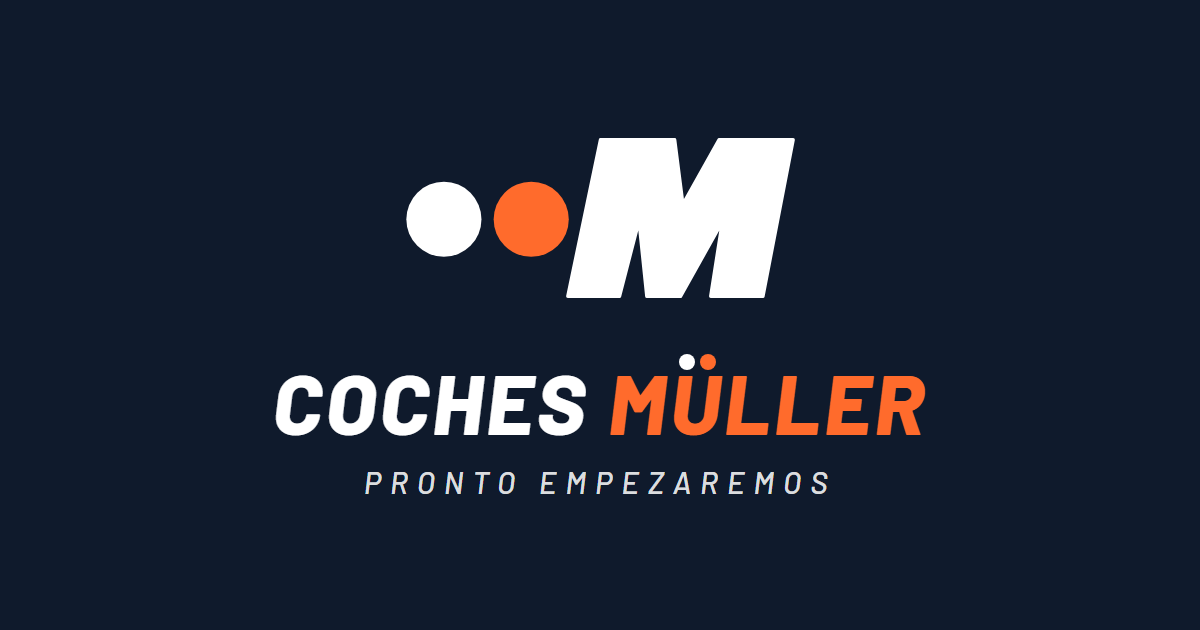
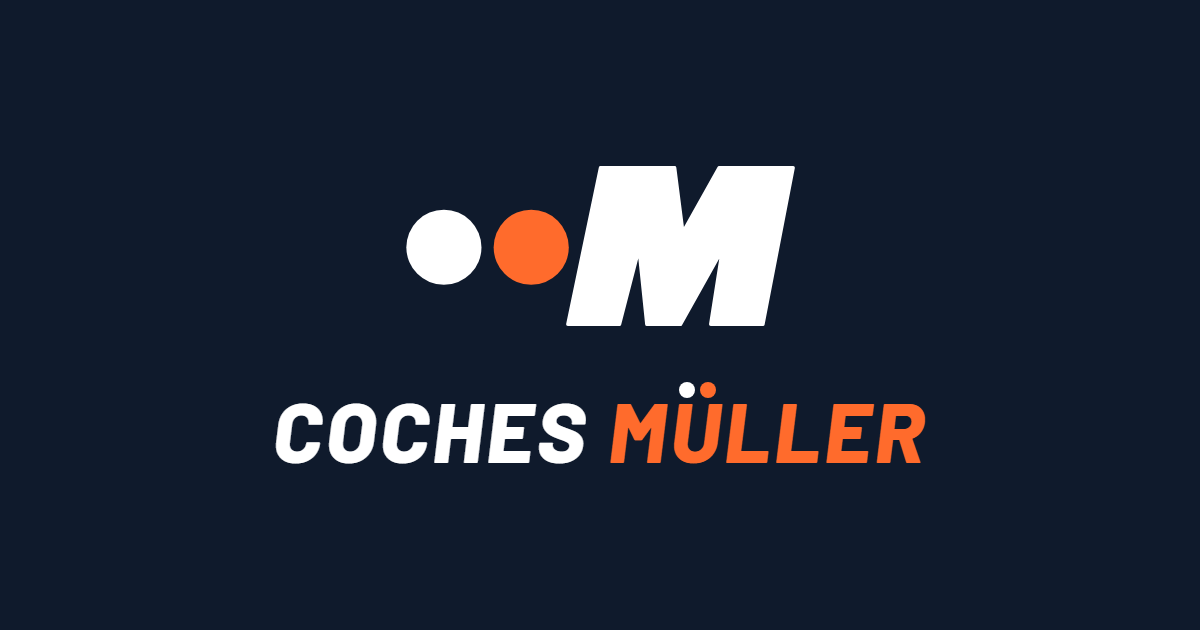
Vista previa del enlace sin 'Pronto empezaremos'

Changed region(s): [[0.2158, 0.2714, 0.7708, 0.7841], [0.4933, 0.2111, 0.6783, 0.3921]]

diff --git a/index.html b/index.html
@@ -10,9 +10,9 @@
 <meta property="og:site_name" content="Coches Müller">
 <meta property="og:locale" content="es_ES">
 <meta property="og:url" content="https://cochesmuller.com/">
-<meta property="og:title" content="Coches Müller · Pronto empezaremos">
-<meta property="og:description" content="Coches Müller. Pronto empezaremos.">
-<meta property="og:image" content="https://cochesmuller.com/og.png">
+<meta property="og:title" content="Coches Müller">
+<meta property="og:description" content="Coches Müller">
+<meta property="og:image" content="https://cochesmuller.com/og.png?v=2">
 <meta property="og:image:width" content="1200">
 <meta property="og:image:height" content="630">
 <meta name="twitter:card" content="summary_large_image">
